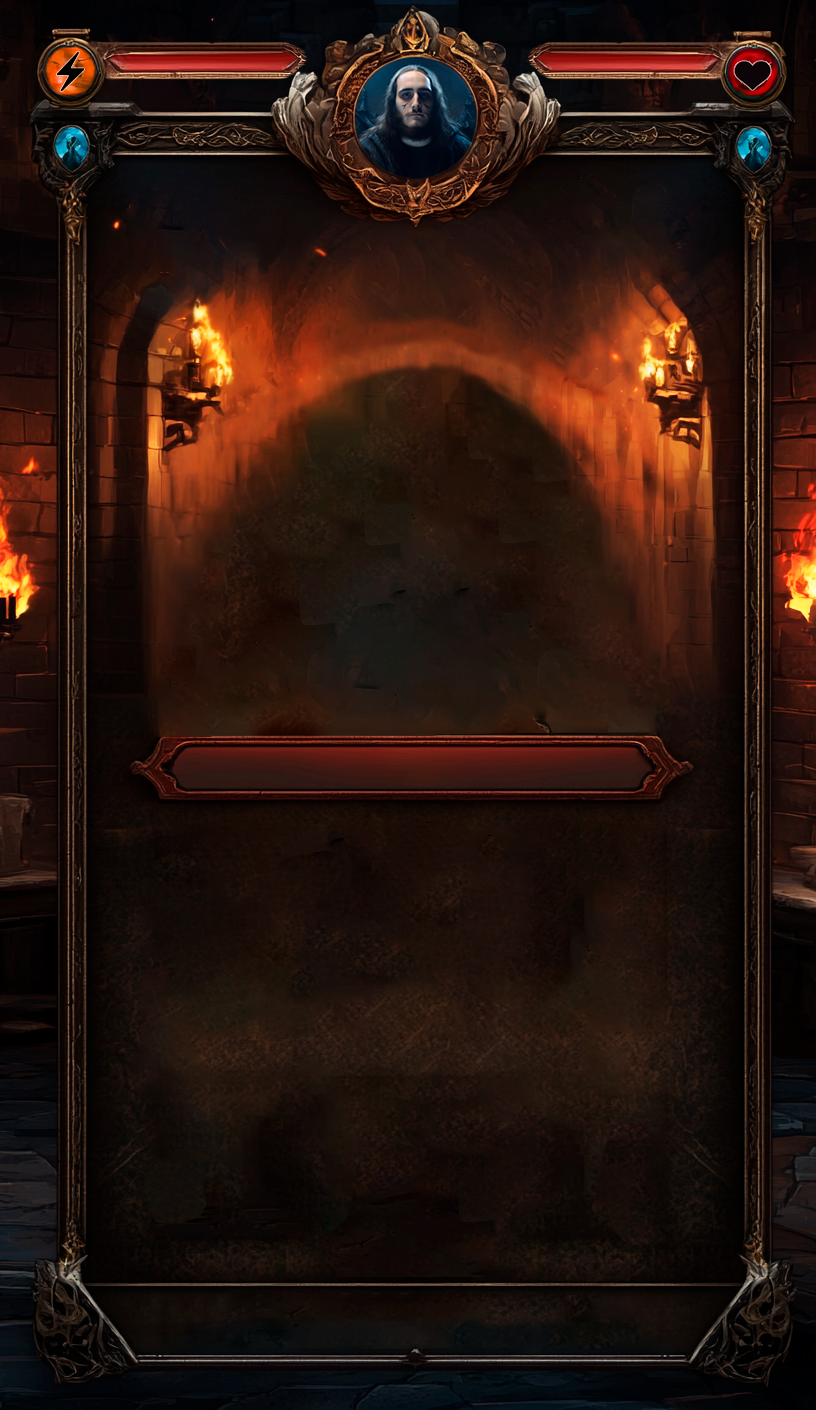
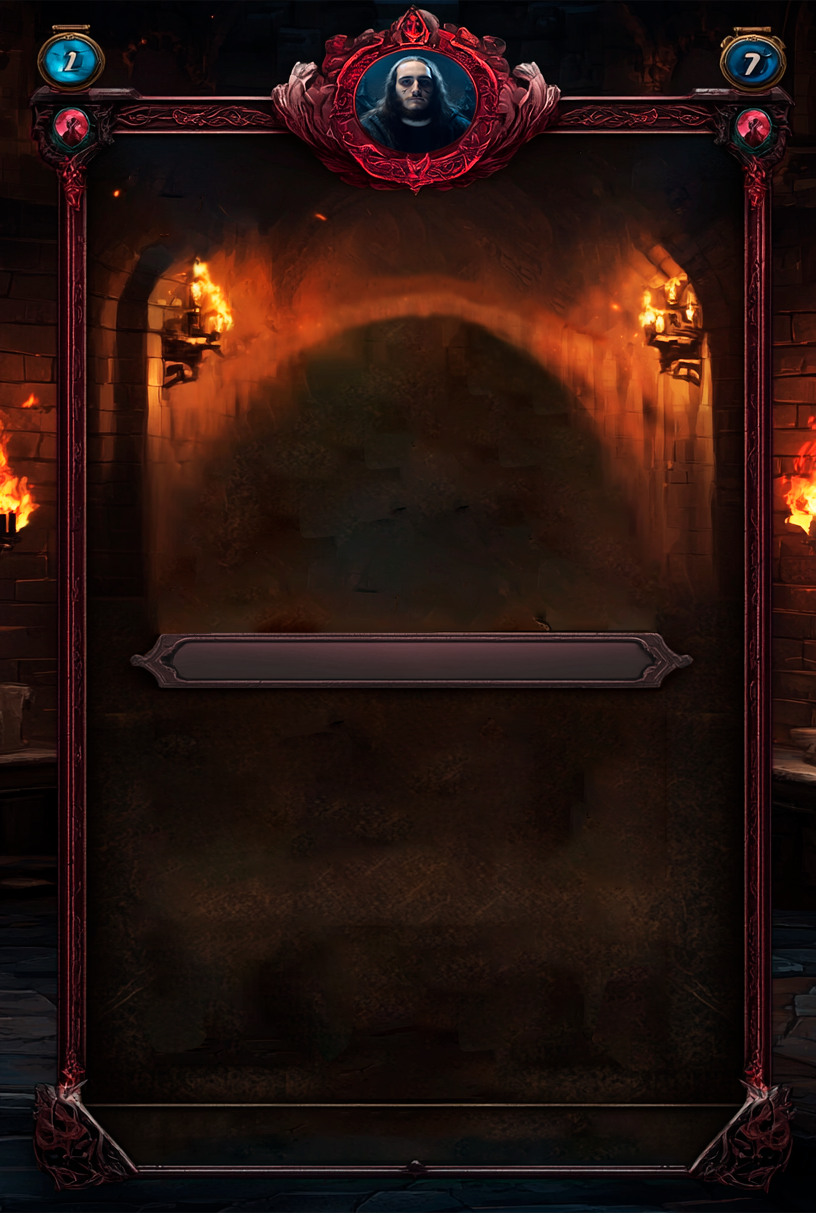
[KBM-24][UPDATE] Login and Battle screens

diff --git a/src/pages/LoginScreen.tsx b/src/pages/LoginScreen.tsx
@@ -14,13 +14,13 @@ const LoginScreen: React.FC<LoginScreenInterface> = ({ email, setEmail, setIsLog
   const handleEnterBattle = async () => {
     console.log('Email:', email);
     try {
-      // const response = await fetch(`https://kaotika-battle-server.onrender.com/api/player/${email}`);
-      // if (!response.ok) {
-      //   throw new Error('Failed to fetch player data');
-      // }
-      // const playerData = await response.json();
+      const response = await fetch(`https://kaotika-battle-server.onrender.com/api/player/aldatz.frutos@ikasle.aeg.eus`);
+      if (!response.ok) {
+        throw new Error('Failed to fetch player data');
+      }
+      const playerData = await response.json();
 
-      // console.log('Player data:', playerData);
+      console.log('Player data:', playerData);
       
       // Emit an event with an object containing the email and socket ID
     socket.emit(SOCKET_EVENTS.SEND_SOCKETID, {

diff --git a/src/pages/BattleScreen.tsx b/src/pages/BattleScreen.tsx
@@ -33,7 +33,7 @@ const BattleScreen: React.FC<BattleScreenProps> = ({
     <>
       <div
         className='w-full h-screen flex flex-col items-center justify-center'
-        style={{ backgroundImage: 'url(/images/BattleFrame.png)', backgroundSize: '100% 100%' }}>
+        style={{ backgroundImage: 'url(/images/BattleFrame2.png)', backgroundSize: '100% 100%' }}>
         <ClassImage />
 
         <NickName nickname={player?.nickname!}/>
